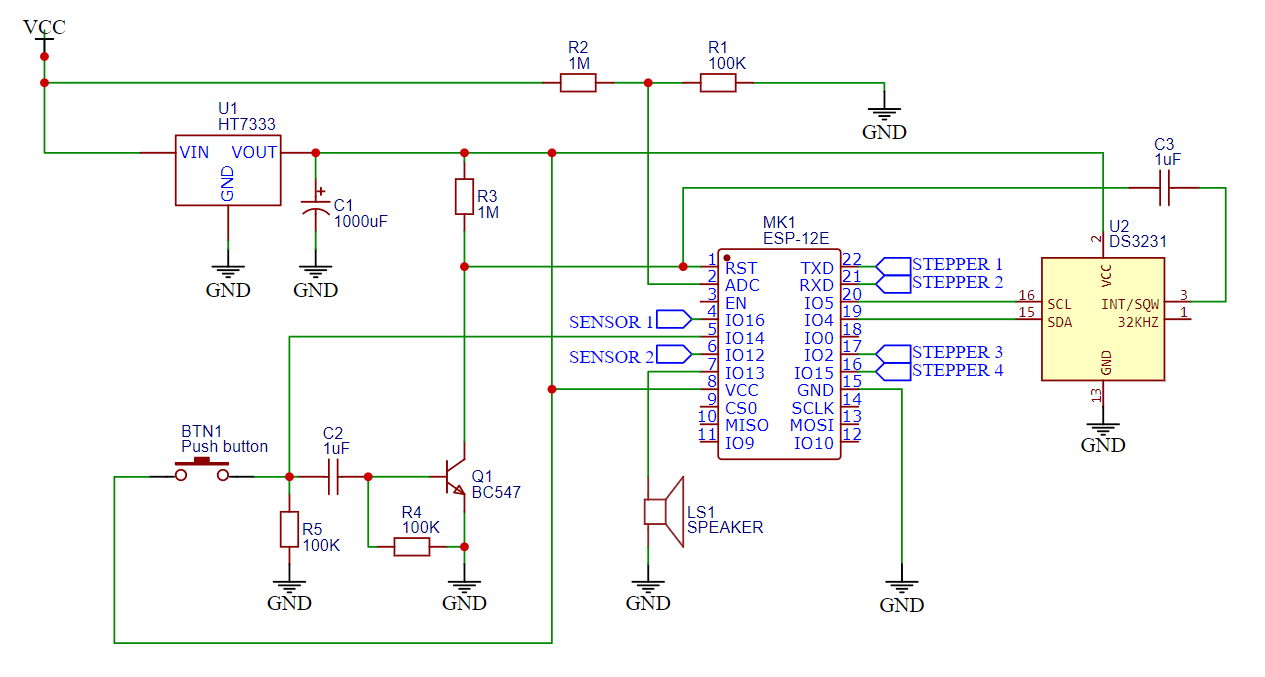
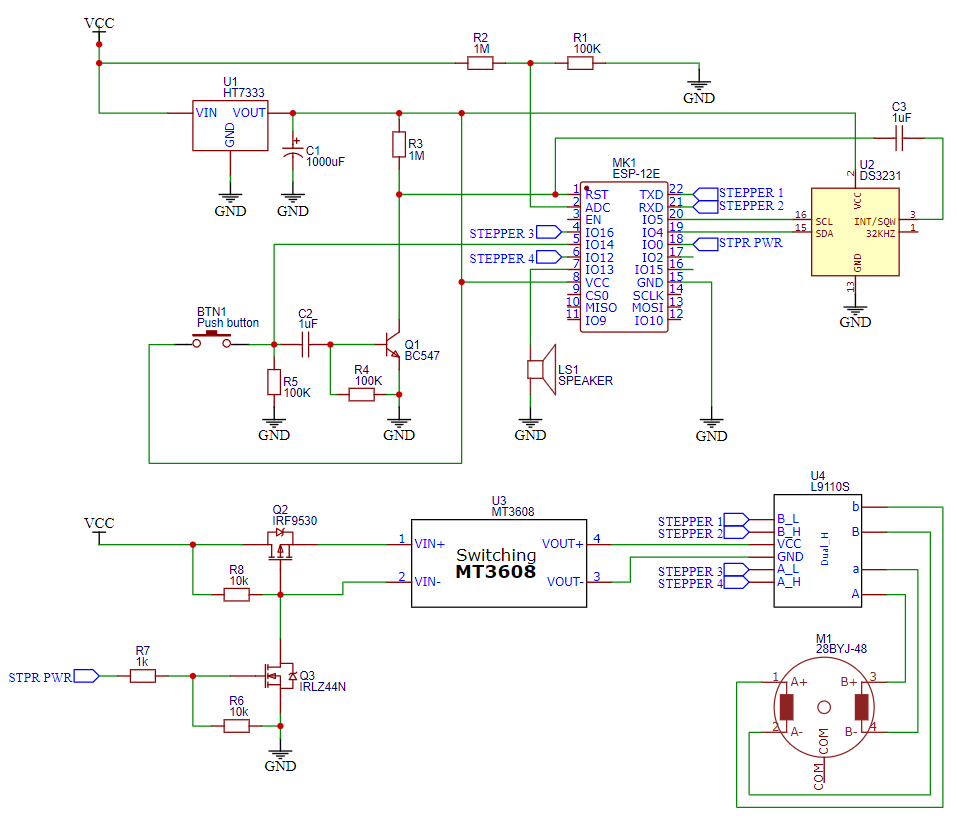
Update circuit diagram

Changed region(s): [[0.0, 0.0, 1.0, 0.9926], [0.2121, 0.5583, 0.2424, 0.5894], [0.0909, 0.9306, 0.1212, 0.9616]]

diff --git a/README.md b/README.md
@@ -70,5 +70,4 @@ To see the video of working device, check out the [video on YouTube](https://you
 
 ## TODO
 
-* Update circuit diagram
 * Add stl files for printed parts
